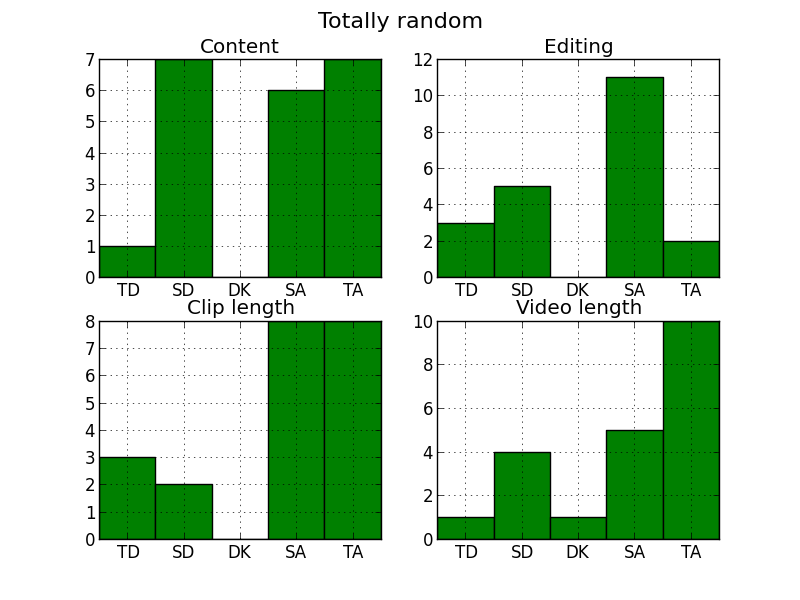
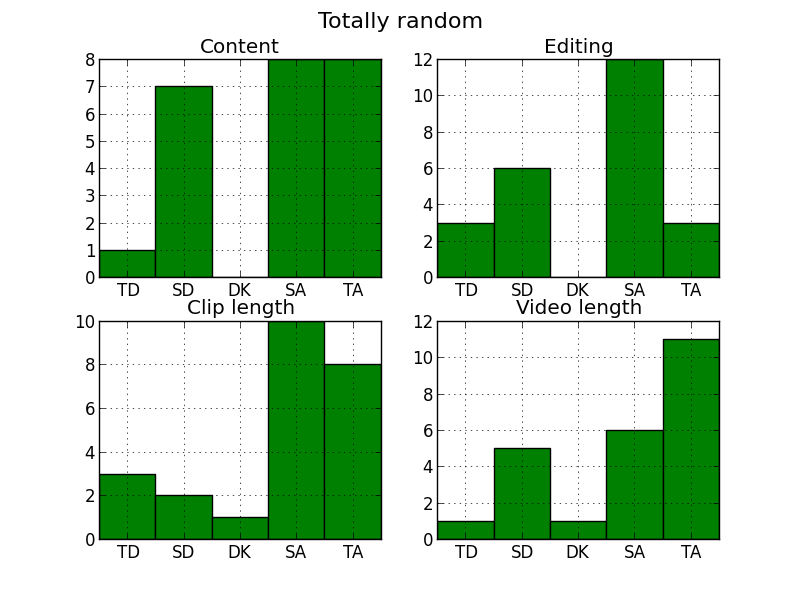
wqeq

diff --git a/phase4/data_analysis.py b/phase4/data_analysis.py
@@ -101,6 +101,33 @@ class Data:
 		scores = Data.get_scores(video=video)
 		return np.mean(scores)
 
+	@staticmethod
+	def __get_dataset_filenames(dataset):
+
+		if dataset == 'cop15':
+			return ['2f7a25e921.m4v', '77baa022f1.m4v', 'dd7d1998f8.avi']
+		if dataset == 'acta_aarhus':
+			return ['2806c14722.avi']
+		if dataset == 'acta_cph':
+			return ['48b62f11dc.avi', '57d23634ac.m4v', '3f79a5f7f1.m4v', 'c23777fd98.m4v', '14e177dd42.m4v']
+
+	@staticmethod
+	def __get_dataset_from_filename(filename):
+
+		def f(x):
+			return x
+		if len(filename.split('.')) == 1:
+			# raise Exception('filename "%s" must include extension' % filename)
+			def f(x):
+				return [z.split('.')[0] for z in x]
+
+		for dataset in ['cop15', 'acta_aarhus', 'acta_cph']:
+			if filename in f(Data.__get_dataset_filenames(dataset)):
+				return dataset
+		# missing some filenames it seems...
+		# raise Exception('no matching dataset found for %s' % filename)
+		return 'N/A'
+
 	def get_video_with_filename(self, filename):
 
 		for video in self.videos:
@@ -120,11 +147,11 @@ class Data:
 					filenames.append(filename)
 					break
 		if 'cop15' in datasets:
-			filenames += ['2f7a25e921.m4v', '77baa022f1.m4v', 'dd7d1998f8.avi']
+			filenames += Data.__get_dataset_filenames('cop15') #['2f7a25e921.m4v', '77baa022f1.m4v', 'dd7d1998f8.avi']
 		if 'acta_aarhus' in datasets:
-			filenames += ['2806c14722.avi']
+			filenames += Data.__get_dataset_filenames('acta_aarhus') #['2806c14722.avi']
 		if 'acta_cph' in datasets:
-			filenames += ['48b62f11dc.avi', '57d23634ac.m4v', '3f79a5f7f1.m4v', 'c23777fd98.m4v', '14e177dd42.m4v']
+			filenames += Data.__get_dataset_filenames('acta_cph') #['48b62f11dc.avi', '57d23634ac.m4v', '3f79a5f7f1.m4v', 'c23777fd98.m4v', '14e177dd42.m4v']
 		return filenames
 
 	# get: total random, label random, edited, recipe
@@ -157,6 +184,24 @@ class Data:
 
 		filenames = self.__get_filenames_with_dataset(datasets=datasets)
 		return self.__filenames_to_ytids(filenames=filenames)
+
+	def __is_total_random__recipe(self, filename):
+		return filename in self.__get_filenames_with_total_random_recipe()
+
+	def __is_random_label_recipe(self, filename):
+		return filename in self.__get_filenames_with_random_label_recipe()
+
+	def __is_designer__recipe(self, filename):
+		return filename in self.__get_filenames_with_designer_recipe()
+
+	def __is_human_edited(self, filename):
+		return filename in self.__get_filenames_human_edited()
+
+	def _get_recipe_type(self, filename):
+
+		for t, m in [('total random', self.__is_total_random__recipe), ('random label', self.__is_random_label_recipe), ('designer', self.__is_designer__recipe), ('human edited', self.__is_human_edited)]:
+			if m(filename):
+				return t
 
 	def __get_filenames_with_span_alpha(self, span_alpha):
 
@@ -223,6 +268,33 @@ class Data:
 
 		filenames = self.__get_filenames_with_org_ytids(ytids=ytids)
 		return self.__filenames_to_ytids(filenames=filenames)
+
+	def _get_note(self, ytid):
+
+		for d in self.dump:
+			if d.get('ytid') == ytid:
+				return d.get('note')
+
+	def get_notes(self):
+
+		out = []
+		# return a dict of notes along with dataset, name of recipe, and ?
+		for video in self.dump:
+			# print video
+			ytid = video.get('ytid')
+			filename = self.__ytid_to_filename(ytid)
+			dataset = Data.__get_dataset_from_filename(filename)
+			recipe_type = self._get_recipe_type(filename)
+			note = video.get('note')
+			if not note:
+				note = ''
+			out.append(dict(
+				ytid = ytid,
+				dataset = dataset,
+				recipe_type = recipe_type,
+				note = note,
+				))
+		return out
 
 def friedman(ys):
 
@@ -362,38 +434,38 @@ def main():
 		total_score = [float(x/4.0) for x in list(np.sum([content, editing, clip_len, video_len], 0))]
 		return content, editing, clip_len, video_len, total_score
 
+	##################
+	# plot barcharts #
+	##################
 	plot_barcharts = 0
+
+	# number of bins
+	N = 5
+	# figure export format
+	format = 'png'
+
+	# http://matplotlib.sourceforge.net/examples/pylab_examples/histogram_demo_extended.html
+	# http://matplotlib.sourceforge.net/api/pyplot_api.html#matplotlib.pyplot.bar
+	for j, (va, fig_title) in enumerate([(tr_video_answers, 'Totally random'), (lr_video_answers, 'Label random'), (des_video_answers, 'Designer'), (hum_video_answers, 'Human edited')]):
+	# for j, (va, fig_title) in enumerate([(tr_video_answers, 'Totally random')]):
+		content, editing, clip_len, video_len, final_score = get_answers(va)
+		pylab.figure(j+1) # figsize=(10,10)
+		pylab.suptitle(fig_title, fontsize=16)
+		for i, (x, title) in enumerate([(content, 'Content'), (editing, 'Editing'), (clip_len, 'Clip length'), (video_len, 'Video length')]):
+			pylab.subplot(2,2,i+1, title=title)
+			# x = filter(lambda z: z, x) # remove 0's
+			# histogram functions counts occurence of each element in different bins (into the 'n' variable)
+			n, bins, patches = pylab.hist(x, bins=N); # print n, bins, patches
+			# setting alpha to 0 to not show this plot
+			pylab.setp(patches, 'alpha', 0.0, 'facecolor', 'b')
+			ind = np.arange(N) - 2 # [-2,-1,0,1,2]
+			plt.bar(left=ind, height=n, width=1.0, color='g')
+			plt.xticks(ind + 1/2.0, ('TD', 'SD', 'DK', 'SA', 'TA'))
+			pylab.grid(True)
+		# http://matplotlib.sourceforge.net/api/pyplot_api.html#matplotlib.pyplot.savefig
+		fname = './figs/%s_barplot.%s' % (fig_title.lower().replace(' ', ''), format)
+		plt.savefig(fname, format=format)
 	if plot_barcharts:
-		##################
-		# plot barcharts #
-		##################
-
-		# number of bins
-		N = 5
-		# figure export format
-		format = 'png'
-
-		# http://matplotlib.sourceforge.net/examples/pylab_examples/histogram_demo_extended.html
-		# http://matplotlib.sourceforge.net/api/pyplot_api.html#matplotlib.pyplot.bar
-		for j, (va, fig_title) in enumerate([(tr_video_answers, 'Totally random'), (lr_video_answers, 'Label random'), (des_video_answers, 'Designer'), (hum_video_answers, 'Human edited')]):
-		# for j, (va, fig_title) in enumerate([(tr_video_answers, 'Totally random')]):
-			content, editing, clip_len, video_len = get_answers(va)
-			pylab.figure(j+1) # figsize=(10,10)
-			pylab.suptitle(fig_title, fontsize=16)
-			for i, (x, title) in enumerate([(content, 'Content'), (editing, 'Editing'), (clip_len, 'Clip length'), (video_len, 'Video length')]):
-				pylab.subplot(2,2,i+1, title=title)
-				# x = filter(lambda z: z, x) # remove 0's
-				# histogram functions counts occurence of each element in different bins (into the 'n' variable)
-				n, bins, patches = pylab.hist(x, bins=N); # print n, bins, patches
-				# setting alpha to 0 to not show this plot
-				pylab.setp(patches, 'alpha', 0.0, 'facecolor', 'b')
-				ind = np.arange(N) - 2 # [-2,-1,0,1,2]
-				plt.bar(left=ind, height=n, width=1.0, color='g')
-				plt.xticks(ind + 1/2.0, ('TD', 'SD', 'DK', 'SA', 'TA'))
-				pylab.grid(True)
-			# http://matplotlib.sourceforge.net/api/pyplot_api.html#matplotlib.pyplot.savefig
-			fname = './figs/%s_barplot.%s' % (fig_title.lower().replace(' ', ''), format)
-			plt.savefig(fname, format=format)
 		pylab.show()
 
 	#################
@@ -415,10 +487,12 @@ def main():
 
 	# used by matrix2latex
 	# header row
-	hr = ['', '$\\nu$', 'p-value', '$\\chi^2$']
+	# hr = ['', '$\\nu$', 'p-value', '$\\chi^2$']
+	hr = ['', '$\\nu$', 'p-value']
 	# format column
-	fc = ['%s', '$%d$', '$%1.4f$', '$%1.4f$']
-	alignment = 'lccc'
+	# fc = ['%s', '$%d$', '$%1.4f$', '$%1.4f$']
+	fc = ['%s', '$%d$', '$%1.4f$']
+	alignment = 'lcc'
 
 	m = []
 	y1 = get_answers(tr_video_answers)
@@ -428,7 +502,7 @@ def main():
 	for i, t in enumerate(['Content', 'Editing', 'Clip length', 'Video length', 'Total score']):
 		print 'doing Friedman test for %s (recipies)' % t
 		df, p, v = friedman([y1[i], y2[i], y3[i], y4[i]])
-		m.append([t, df, p, v])
+		m.append([t, df, p])
 	caption = 'Friedman rank sum test for recipies'
 	label = 'tab:fried_recip'
 	t = matrix2latex(m, 'recipies', headerRow=hr, caption=caption, label=label, formatColumn=fc, alignment=alignment)
@@ -440,7 +514,7 @@ def main():
 	for i, t in enumerate(['Content', 'Editing', 'Clip length', 'Video length', 'Total score']):
 		print 'doing Friedman test for %s (datasets)' % t
 		df, p, v = friedman([y1[i], y2[i], y3[i]])
-		m.append([t, df, p, v])
+		m.append([t, df, p])
 	caption = 'Friedman rank sum test for datasets'
 	label = 'tab:fried_dataset'
 	t = matrix2latex(m, 'datasets', headerRow=hr, caption=caption, label=label, formatColumn=fc, alignment=alignment)
@@ -451,7 +525,7 @@ def main():
 	for i, t in enumerate(['Content', 'Editing', 'Clip length', 'Video length', 'Total score']):
 		print 'doing Friedman test for %s (alpha-span)' % t
 		df, p, v = friedman([y1[i], y2[i]])
-		m.append([t, df, p, v])
+		m.append([t, df, p])
 	caption = 'Friedman rank sum test for $\\alpha$-span'
 	label = 'tab:fried_alpha'
 	t = matrix2latex(m, 'alpha-span', headerRow=hr, caption=caption, label=label, formatColumn=fc, alignment=alignment)
@@ -459,6 +533,13 @@ def main():
 	#################
 	# post-hoc test #
 	#################
+
+	#################
+	# note #
+	#################
+
+	notes = data.get_notes()
+	print json.dumps(notes, sort_keys=True, indent=4)
 
 if __name__ == '__main__':
 	main()

diff --git a/report/phase4.tex b/report/phase4.tex
@@ -1,7 +1,8 @@
 %
 \section{Testing}
 %
-test site can be found at thesis.fmitcar.appspot.com/thesis/start/
+Test site can be found at thesis.fmitcar.appspot.com/thesis/start/\\
+TODO: WRITE MORE
 %
 \subsection{Test Environment}
 %
@@ -50,7 +51,7 @@ We expect these to perform as well as the designer recipies or better.
 %
 \subsection{Results}
 %
-The first step in our analysis of the collected data is to plot histograms of the answers in each method, as seen in Figure \ref{fig:hist_design} (additional figures can be found in Appendix \ref{app:histograms}), in order to investigate the distribution of answers. As see in Figure \ref{fig:hist_design} the answers are unevenly distributed with a skew to the right with the exception of the first histogram (content). The answers are generally unevenly distributed in the other histograms which allows us to continue our analysis. Had there been a trend of an even distribution of answers the data would have been inconclusive by definition.
+The first step in our analysis of the collected data is to plot histograms of the answers in each method in order to investigate the distribution of answers. As see in Figure \ref{fig:hist_design} (additional figures can be found in Appendix \ref{app:histograms}) the answers are unevenly distributed with a skew to the right with the exception of the first histogram (content). The answers are generally unevenly distributed in all histograms, and they do not seem to follow any specific distribution. % which allows us to continue our analysis. Had there been a trend of an even distribution of answers the data would have been inconclusive by definition. DETTE ER EN FORKERT CONCLUSION. LÆS WIKIPEDIA! - RATHER WE COULD INVESTIGATE IF WE HAVE NORMAL DISTRIBUTED DATA (DOES NOT LOOK LIKE IT).
 %
 \begin{figure}
      \centering
@@ -58,8 +59,9 @@ The first step in our analysis of the collected data is to plot histograms of th
      \caption{Histogram of answers to videos created with the "designer method"}\label{fig:hist_design}
 \end{figure}\\
 %
-We continue our analysis by employing the Friedman test which is a non-parametric statistical test (we make no assumptions on the normality of our data).The results can be found in Tables \ref{tab:fried_alpha}, \ref{tab:fried_dataset}, and \ref{tab:fried_recip} where $\nu$ denotes degrees of freedom, $\chi^2$ denotes SKAL VI HAVE DENNE MED NÅR VI HAR P-VÆRDI?, and p-value is \textit{"the probability of obtaining a test statistic at least as extreme as the one that was actually observed, assuming that the null hypothesis is true."}\footnote{http://en.wikipedia.org/wiki/P-value} - HVOR MEGET KAN MAN FORVENTE AT LÆSEREN VED OM STATISTIK?\\
-FORMULER NULL HYPOTHESIS???\\
+We continue our analysis by employing the Friedman rank sum test which is a non-parametric statistical test. We must employ a non-parametric test as parametric tests require the data to follow a specific distribution (the histograms shows that it does not). The values related to each answer are also not compareable value-wise (there is no clear numerical interpretation), ie. \textit{Totally disagree} $(-2)$ is not twice as bad as \textit{Somewhat disagree} $(-1)$, but \textit{Totally disagree} is ranked lower than \textit{Somewhat disagree}. The Friedman test ranks all answers, where answers with equal values get the same rank, and then counts occurence of each rank MORE?. The disadvantage of employing a non-parametric test is that it requires are larger sample size to draw conclusions with the same degree of confidence as a parametric test.\\ 
+The results can be found in Tables \ref{tab:fried_alpha}, \ref{tab:fried_dataset}, and \ref{tab:fried_recip} where $\nu$ denotes degrees of freedom, and p-value is \textit{"the probability of obtaining a test statistic at least as extreme as the one that was actually observed, assuming that the null hypothesis is true."}\footnote{http://en.wikipedia.org/wiki/P-value}.\\
+FORMULER NULL HYPOTHESIS\\
 %
 \input{matrix2latex/recipies}
 \input{matrix2latex/datasets}
@@ -86,7 +88,13 @@ Lots more here...
 \subsection{Conclusion}
 %
 % ANDERS
-As we are unable to reject the null hypothesis in almost all regards we must conclude that the various methods of generating a video have no significant effect on the resulting video. This also means that there is no significant difference between a human edited video and one that is generated at random. We believe that this is an effect of high quality raw material, and we would suspect that there would be a noticeable difference if our dataset had contained a larger amount of video footage of questionable quality; visual, contextual, or both.\\
-There is also no significant effect of choosing different $\alpha$-values which leads us to conclude that we must test for values closer to the extreme to get a definite answer. We only tested for two different values to keep the number of test videos at a manageable level. FURTHER ANALYSIS COULD BE TO INVESTIGATE THE EFFECT OF ALPHA VALUES, IE. FOR ALPHA VALUE X WE GET A TOTAL AVR. VIDEO LENGTH OF SO AND SO SECONDS, AND SEGMENT LENGTHS OF SO AND SO SECONDS, COMPARE THAT TO AN ALPHA VALUE OF 2X.\\
-There was also no significant difference between the three data-sets except in content, which is no surprise as the datasets differ primarily on content as described in section \ref{section that describes datasets}.
+As we are unable to reject the null hypothesis in almost all regards we conclude that the questionaires reveal no significant effect of the various methods of generating a the resulting video. This also means that there is no significant measureable difference between a human edited video and one that is generated at random.\\
+There is also no significant measureable effect of choosing different $\alpha$-values, ref to section with alpha-values explained. We only tested for two different values to keep the number of test videos at a manageable level.\\
+There was also no significant measureable difference between the three datasets, except in content which is no surprise as the datasets differ primarily on content as described in section \ref{section that describes datasets}.
+%
+\subsection{Discussion OR MAYBE SECTION SUMMARY?}
+%
+COPY PASTA FROM CONCLUSION:
+We believe that this is an effect of high quality raw material, and we would suspect that there would be a noticeable difference if our dataset had contained a larger amount of video footage of questionable quality; visual, contextual, or both.\\
+which leads us to conclude that we must test for values closer to the extreme to get a definite answer. FURTHER ANALYSIS COULD BE TO INVESTIGATE THE EFFECT OF ALPHA VALUES, IE. FOR ALPHA VALUE X WE GET A TOTAL AVR. VIDEO LENGTH OF SO AND SO SECONDS, AND SEGMENT LENGTHS OF SO AND SO SECONDS, COMPARE THAT TO AN ALPHA VALUE OF 2X.\\
 %

diff --git a/report/report.tex b/report/report.tex
@@ -54,10 +54,17 @@
 % print rapport og gennemlæs
 % spørgsmål til kim:
 	% forsvar? hvornår og hvordan?
+		% præsentation p. 20 min. 10-15 slides
+		% forklar overordnet: målet, hvad har vi gjort? brug til at rette op på fejl i rapport
+		% konklusion. evt. vis videoer og/eller nye resultater
+		% diskussion (detaljer) dernæst reflektion
+		% ialt ca. 1 time
+		% møde inden forsvar
 	% analyse videre på resultater?
 	% sub-optimale måde at måle score i phase1
-	% rapport struktur i phase2
+	% rapport struktur i phase2 
 % 
+% få patrick og tim til at læse rapport
 % print the report at any given opportunity + A Simple Guide to Organizing Your Thesis.pdf
 
 % formalities in regards to delivery (electronic delivery?)

diff --git a/report/matrix2latex/alpha-span.tex b/report/matrix2latex/alpha-span.tex
@@ -2,15 +2,15 @@
 	\begin{center}
 	\caption{Friedman rank sum test for $\alpha$-span}
 	\label{tab:fried_alpha}
-		\begin{tabular}{lccc}
+		\begin{tabular}{lcc}
 		\toprule
-			 & $\nu$ & p-value & $\chi^2$\\
+			 & $\nu$ & p-value\\
 			\midrule
-			Content & $1$ & $0.7055$ & $0.1429$\\
-			Editing & $1$ & $1.0000$ & $0.0000$\\
-			Clip length & $1$ & $0.4652$ & $0.5333$\\
-			Video length & $1$ & $0.7055$ & $0.1429$\\
-			Total score & $1$ & $0.5271$ & $0.4000$\\
+			Content & $1$ & $0.7055$\\
+			Editing & $1$ & $1.0000$\\
+			Clip length & $1$ & $0.4652$\\
+			Video length & $1$ & $0.7055$\\
+			Total score & $1$ & $0.5271$\\
 		\bottomrule
 		\end{tabular}
 	\end{center}

diff --git a/report/matrix2latex/datasets.tex b/report/matrix2latex/datasets.tex
@@ -2,15 +2,15 @@
 	\begin{center}
 	\caption{Friedman rank sum test for datasets}
 	\label{tab:fried_dataset}
-		\begin{tabular}{lccc}
+		\begin{tabular}{lcc}
 		\toprule
-			 & $\nu$ & p-value & $\chi^2$\\
+			 & $\nu$ & p-value\\
 			\midrule
-			Content & $2$ & $0.0335$ & $6.7895$\\
-			Editing & $2$ & $0.3583$ & $2.0526$\\
-			Clip length & $2$ & $0.0593$ & $5.6505$\\
-			Video length & $2$ & $0.1074$ & $4.4630$\\
-			Total score & $2$ & $0.0963$ & $4.6815$\\
+			Content & $2$ & $0.0335$\\
+			Editing & $2$ & $0.3583$\\
+			Clip length & $2$ & $0.0593$\\
+			Video length & $2$ & $0.1074$\\
+			Total score & $2$ & $0.0963$\\
 		\bottomrule
 		\end{tabular}
 	\end{center}

diff --git a/report/matrix2latex/recipies.tex b/report/matrix2latex/recipies.tex
@@ -2,15 +2,15 @@
 	\begin{center}
 	\caption{Friedman rank sum test for recipies}
 	\label{tab:fried_recip}
-		\begin{tabular}{lccc}
+		\begin{tabular}{lcc}
 		\toprule
-			 & $\nu$ & p-value & $\chi^2$\\
+			 & $\nu$ & p-value\\
 			\midrule
-			Content & $3$ & $0.3242$ & $3.4737$\\
-			Editing & $3$ & $0.3260$ & $3.4602$\\
-			Clip length & $3$ & $0.9597$ & $0.3016$\\
-			Video length & $3$ & $0.3218$ & $3.4918$\\
-			Total score & $3$ & $0.4882$ & $2.4292$\\
+			Content & $3$ & $0.3242$\\
+			Editing & $3$ & $0.3260$\\
+			Clip length & $3$ & $0.9597$\\
+			Video length & $3$ & $0.3218$\\
+			Total score & $3$ & $0.4882$\\
 		\bottomrule
 		\end{tabular}
 	\end{center}
